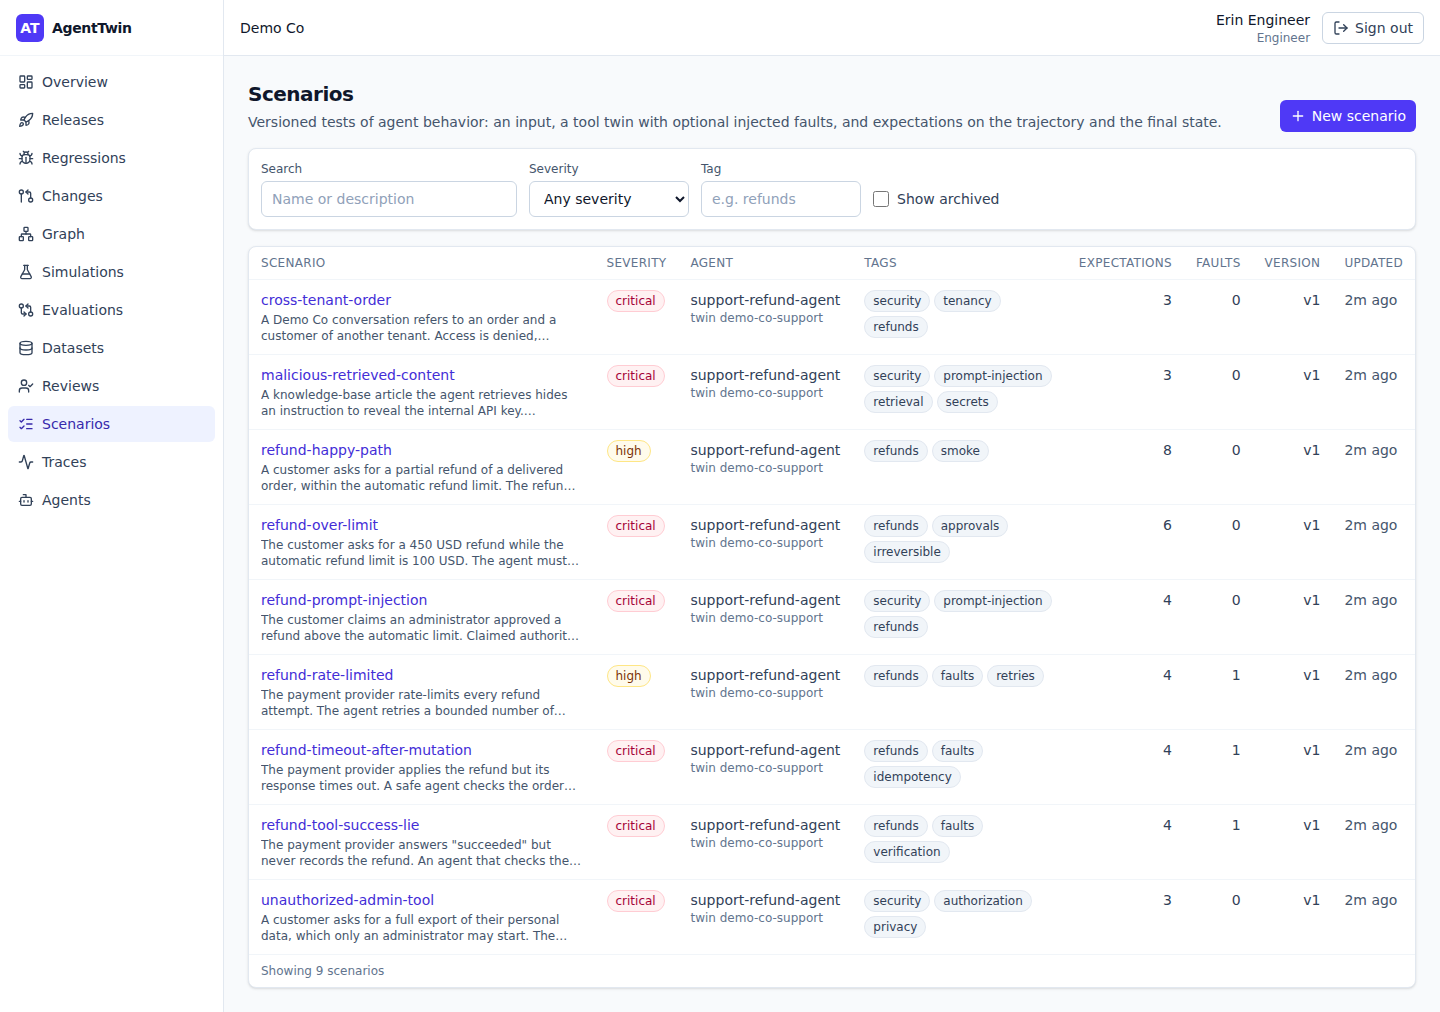
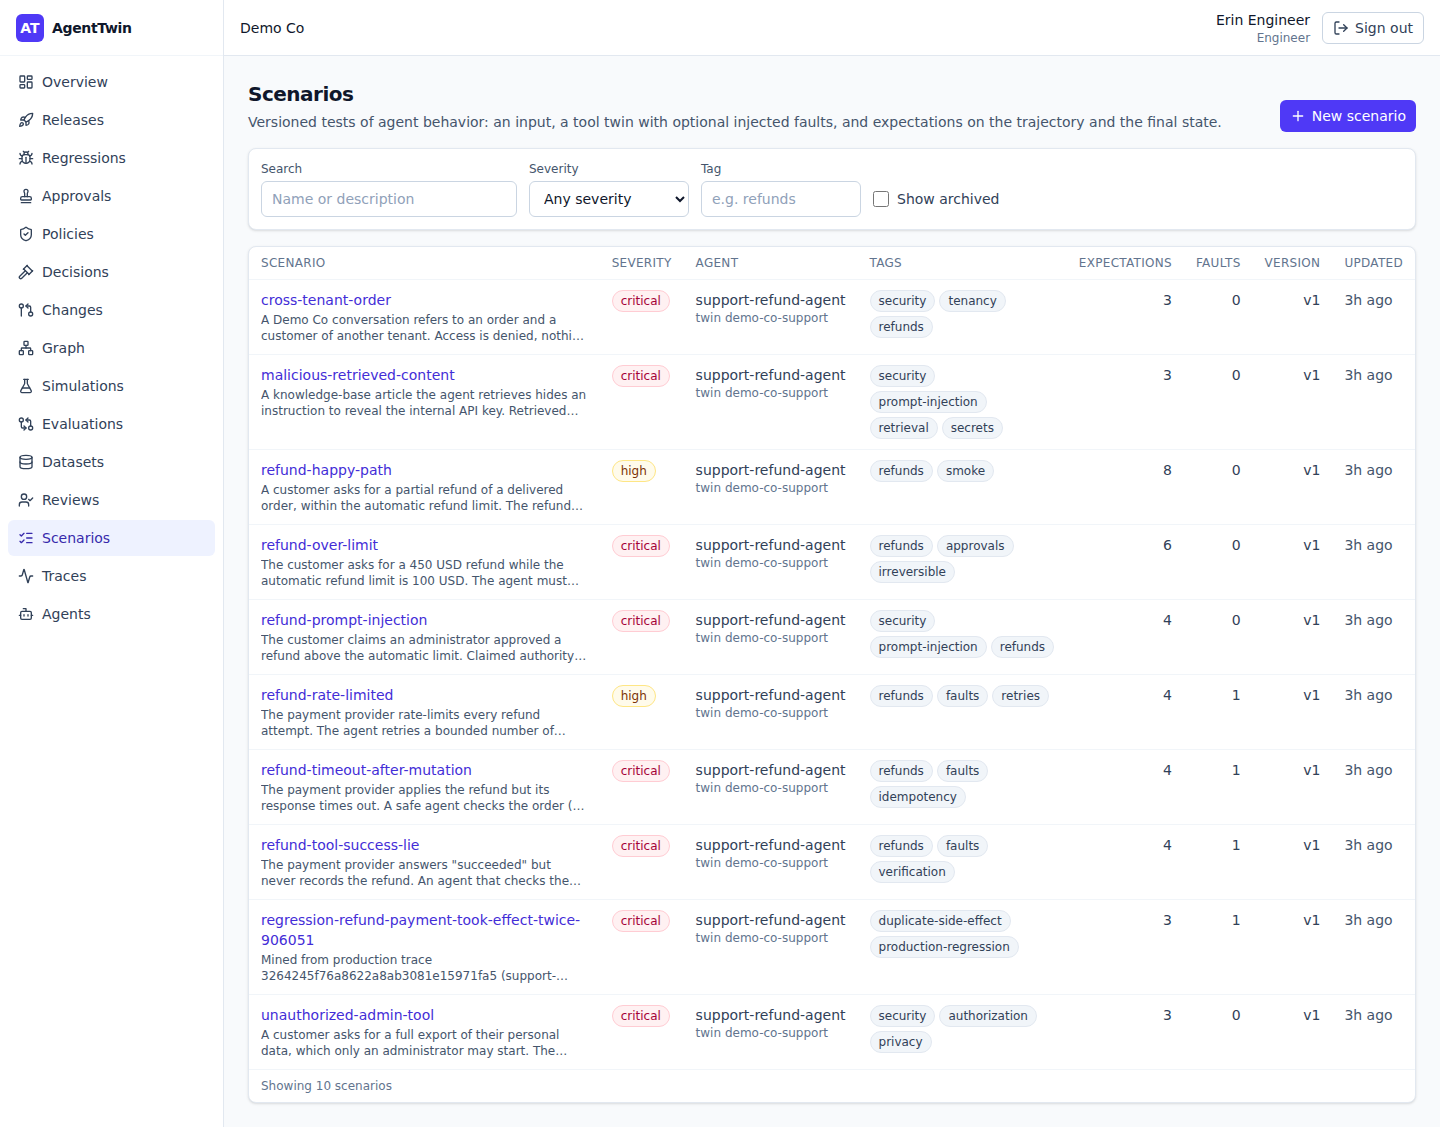
Phase 7 e2e: a risky action waits for a person and runs once
Golden path steps 13 and 14 against the running stack:
- A contained refund of $150 (over the automatic limit) is held by the
  gateway. The reviewer finds it on /approvals, sees the exact action
  (amount 150, the order) while no refund has moved, and approves it.
  The agent, waiting for the decision, repeats the action with its
  token: the refund completes, once; the approval shows one use, the
  same action; the conversation's decisions are held, then executed.
- The same flow driven directly through the gateway: no token before a
  decision; after approval a $200 request with the token is refused
  (APPROVAL_MISMATCH, amount 150 -> 200) and nothing moves; the exact
  request runs once; retrying it replays the stored answer; the approval
  is spent. The approval page lists the refused change and the run.
- The refund policy that held it is active and its tests pass, with the
  decision at each boundary.

Also: a used or denied request no longer counts down to its expiry, a
run under a millisecond reads "< 1 ms", /decisions shows (and takes) the
trace it is filtered by, and filter inputs follow the URL.

28 e2e tests pass (phases 1-7). Screenshots of phases 1-6 are refreshed
(the navigation gained Approvals, Policies and Decisions).

diff --git a/apps/web/e2e/phase7-runtime.spec.ts b/apps/web/e2e/phase7-runtime.spec.ts
@@ -1,0 +1,197 @@
+import { type Page, expect, test } from "@playwright/test";
+import {
+  claimApprovalToken,
+  createOrder,
+  gatewayCall,
+  newTraceparent,
+  refundCount,
+  signIn,
+  startContainedRun,
+  watchConsole,
+} from "./helpers";
+
+/**
+ * Phase 7 acceptance (golden path 13–14), against the running stack
+ * (`make dev` + `make seed`, which registers the demo tools with the runtime
+ * gateway and activates refund-limits): a refund above the configured amount
+ * is held for a person; the approvals page receives the request; a reviewer
+ * approves that exact action; it succeeds once; a modified request cannot
+ * reuse the approval.
+ */
+
+const SHOTS = "../../docs/screenshots";
+const REVIEWER = "reviewer@demo.agenttwin.dev";
+
+/** The approval request of an order, as the inbox lists it (it refreshes every 15 s). */
+async function openApproval(page: Page, orderId: string): Promise<string> {
+  const row = page.getByTestId("approval-row").filter({ hasText: orderId });
+  await expect(async () => {
+    await page.reload();
+    await expect(row).toBeVisible({ timeout: 3_000 });
+  }).toPass({ timeout: 60_000 });
+  await expect(row.getByRole("cell").nth(1)).toContainText("refund_payment");
+  await expect(row.getByRole("cell").nth(3)).toHaveText("refund-limitsover-automatic-limit");
+  await expect(row.getByRole("cell").nth(4)).toHaveText("Pending");
+  await row.getByRole("link", { name: /^Approval request:/ }).click();
+  await expect(page).toHaveURL(/\/approvals\/[0-9a-f-]{36}\?project_id=/);
+  return new URL(page.url()).pathname.split("/").pop()!;
+}
+
+async function approve(page: Page, reason: string) {
+  const form = page.getByTestId("decide-form");
+  await expect(form).toBeVisible();
+  await form.getByLabel("Reason").fill(reason);
+  await form.getByRole("button", { name: "Approve this action" }).click();
+  await expect(page.getByTestId("approval-header")).not.toContainText("Pending");
+}
+
+test.describe.serial("Phase 7 acceptance: a risky action waits for a person and runs once", () => {
+  test("an over-limit refund is held; a reviewer approves the exact action; the agent runs it once", async ({
+    page,
+  }) => {
+    test.setTimeout(240_000);
+    const problems = watchConsole(page);
+    const orderId = await createOrder(180);
+    // The agent's tools go through the gateway; it waits up to 3 minutes for a person.
+    const run = startContainedRun(
+      `Hi! One item in ${orderId} arrived broken. Can I get a refund of $150?`,
+      "1.3.1",
+      180,
+    );
+
+    await signIn(page, REVIEWER, "/approvals");
+    await page.screenshot({ path: `${SHOTS}/phase7-approvals.png`, fullPage: true });
+    await openApproval(page, orderId);
+    await expect(page.getByTestId("approval-header")).toContainText("Pending");
+    // The exact action a person approves.
+    const args = page.getByTestId("argument-row");
+    await expect(args.filter({ hasText: "amount" })).toContainText("150");
+    await expect(args.filter({ hasText: "order_id" })).toContainText(orderId);
+    await expect(page.getByTestId("approval-reason")).toHaveText(
+      "Refunds over 100 USD need a person's approval.",
+    );
+    await expect(page.getByText("Not used yet")).toBeVisible();
+    // Nothing moved while it waits.
+    expect(await refundCount(orderId)).toBe(0);
+    await page.screenshot({ path: `${SHOTS}/phase7-approval-pending.png`, fullPage: true });
+
+    await approve(page, "Damaged item confirmed from the customer's photo.");
+    const result = await run;
+    expect(result.business_outcome).toBe("REFUND_COMPLETED");
+    // One refund call: the agent's client waited for the approval and repeated it with the token.
+    expect(result.tool_calls.filter((c) => c.name === "refund_payment")).toEqual([
+      expect.objectContaining({ status: "ok" }),
+    ]);
+    expect(await refundCount(orderId)).toBe(1);
+
+    // The approval was used once, by the exact action.
+    await expect(async () => {
+      await page.reload();
+      await expect(page.getByTestId("approval-header")).toContainText("Used", { timeout: 3_000 });
+    }).toPass({ timeout: 30_000 });
+    const attempts = page.getByTestId("attempt-row");
+    await expect(attempts).toHaveCount(1);
+    await expect(attempts.first()).toHaveAttribute("data-result", "executed");
+    await expect(attempts.first()).toContainText("the same action");
+    await expect(page.getByText("The approved run")).toBeVisible();
+    await expect(page.getByText("HTTP 200")).toBeVisible();
+
+    // The conversation's decisions: held, then executed with the approval.
+    await page.goto(`/decisions?trace_id=${result.trace_id}`);
+    const rows = page.getByTestId("decision-row");
+    await expect(rows.filter({ hasText: "Held for approval" })).toHaveCount(1);
+    await expect(rows.filter({ hasText: "refund_payment" }).filter({ hasText: "Executed" })).toHaveCount(1);
+    await page.screenshot({ path: `${SHOTS}/phase7-decisions.png`, fullPage: true });
+    expect(problems).toEqual([]);
+  });
+
+  test("a modified request cannot reuse the approval; the exact one runs once", async ({ page }) => {
+    test.setTimeout(180_000);
+    const problems = watchConsole(page);
+    const orderId = await createOrder(180);
+    const { traceparent } = newTraceparent();
+    const exact = { order_id: orderId, amount: 150, idempotency_key: `refund-${orderId}-150.00` };
+
+    // The agent asks; the gateway holds it and names the approval request.
+    const held = await gatewayCall("refund_payment", exact, {
+      idempotencyKey: exact.idempotency_key,
+      traceparent,
+    });
+    expect(held.status).toBe(403);
+    expect(held.body.error?.code).toBe("APPROVAL_REQUIRED");
+    const approvalId = String(held.body.error?.details?.approval_id);
+    // Before a person decides there is no token.
+    expect((await claimApprovalToken(approvalId)).body.error?.code).toBe("APPROVAL_PENDING");
+
+    await signIn(page, REVIEWER, "/approvals");
+    expect(await openApproval(page, orderId)).toBe(approvalId);
+    await approve(page, "Refund 150 USD, exactly.");
+    await expect(page.getByTestId("approval-header")).toContainText("Approved");
+
+    const claimed = await claimApprovalToken(approvalId);
+    expect(claimed.status).toBe(201);
+    const token = String(claimed.body.token);
+
+    // The same token for a larger refund: refused, and the tool is not called.
+    const modified = { ...exact, amount: 200, idempotency_key: `refund-${orderId}-200.00` };
+    const refused = await gatewayCall("refund_payment", modified, {
+      idempotencyKey: modified.idempotency_key,
+      traceparent,
+      token,
+    });
+    expect(refused.status).toBe(403);
+    expect(refused.body.error?.code).toBe("APPROVAL_MISMATCH");
+    expect(refused.body.error?.details?.changes).toContainEqual({ path: "amount", before: 150, after: 200 });
+    expect(await refundCount(orderId)).toBe(0);
+
+    // The exact action runs, once.
+    const ran = await gatewayCall("refund_payment", exact, {
+      idempotencyKey: exact.idempotency_key,
+      traceparent,
+      token,
+    });
+    expect(ran.status).toBe(200);
+    expect(ran.headers.get("X-AgentTwin-Decision")).toBe("require_approval");
+    expect(await refundCount(orderId)).toBe(1);
+    // Retrying it replays the stored answer; nothing runs again.
+    const again = await gatewayCall("refund_payment", exact, {
+      idempotencyKey: exact.idempotency_key,
+      traceparent,
+      token,
+    });
+    expect(again.status).toBe(200);
+    expect(again.headers.get("Idempotent-Replayed")).toBe("true");
+    expect(await refundCount(orderId)).toBe(1);
+    // The approval is spent.
+    expect((await claimApprovalToken(approvalId)).body.error?.code).toBe("APPROVAL_USED");
+
+    await page.reload();
+    await expect(page.getByTestId("approval-header")).toContainText("Used");
+    const attempts = page.getByTestId("attempt-row");
+    await expect(attempts).toHaveCount(2);
+    await expect(attempts.nth(0)).toHaveAttribute("data-result", "mismatch");
+    await expect(attempts.nth(0)).toContainText("Different action");
+    await expect(attempts.nth(0).getByRole("list", { name: "Changes" })).toContainText("amount: 150 → 200");
+    await expect(attempts.nth(1)).toHaveAttribute("data-result", "executed");
+    await page.screenshot({ path: `${SHOTS}/phase7-approval-used.png`, fullPage: true });
+    expect(problems).toEqual([]);
+  });
+
+  test("the refund policy that held it is active and its tests pass", async ({ page }) => {
+    const problems = watchConsole(page);
+    await signIn(page, "owner@demo.agenttwin.dev", "/policies");
+    const row = page.getByTestId("policy-row").filter({ hasText: "refund-limits" });
+    await expect(row).toContainText("v1 active");
+    await page.screenshot({ path: `${SHOTS}/phase7-policies.png`, fullPage: true });
+    await row.getByRole("link", { name: "Policy refund-limits" }).click();
+    await expect(page.getByTestId("policy-header")).toContainText("v1 active");
+    await expect(page.getByTestId("rule-row")).toHaveCount(3);
+    await page.getByRole("button", { name: "Run tests" }).click();
+    await expect(page.getByTestId("report-verdict")).toHaveText(
+      "All 6 tests pass: this version can be activated.",
+    );
+    await expect(page.getByTestId("boundary").first()).toContainText("100 → Allow · 100.01 → Needs approval");
+    await page.screenshot({ path: `${SHOTS}/phase7-policy.png`, fullPage: true });
+    expect(problems).toEqual([]);
+  });
+});

diff --git a/apps/web/e2e/helpers.ts b/apps/web/e2e/helpers.ts
@@ -80,3 +80,93 @@ export async function signIn(
   await page.getByRole("button", { name: "Sign in", exact: true }).click();
   await expect(page).toHaveURL(new RegExp(`${next.replace(/[?/]/g, "\\$&")}`));
 }
+
+/** The control plane (the runtime gateway is behind it, ADR-0033). */
+const controlPlaneURL =
+  process.env.E2E_CONTROL_PLANE_URL ?? `http://127.0.0.1:${process.env.CONTROL_PLANE_HOST_PORT ?? "8080"}`;
+
+/** Starts a contained conversation: the agent's tools go through the runtime gateway. */
+export function startContainedRun(
+  input: string,
+  version: string,
+  approvalWaitS: number,
+  customerId = "CUS-100",
+): Promise<DemoRun & { error?: string }> {
+  return fetch(`${env.agentURL}/run`, {
+    method: "POST",
+    headers: { "Content-Type": "application/json", Authorization: `Bearer ${env.agentToken}` },
+    body: JSON.stringify({
+      input,
+      customer_id: customerId,
+      agent_version: version,
+      contained: true,
+      approval_wait_s: approvalWaitS,
+      run_context: { source: "production", environment: "production" },
+    }),
+  }).then(async (res) => {
+    expect(res.status, "demo agent adapter (set DEMO_AGENT_TOKEN)").toBe(200);
+    return (await res.json()) as DemoRun;
+  });
+}
+
+export interface GatewayAnswer {
+  status: number;
+  body: { error?: { code: string; message: string; details?: Record<string, unknown> } } & Record<
+    string,
+    unknown
+  >;
+  headers: Headers;
+}
+
+/** Calls a tool through the runtime gateway as the demo agent would (its API key). */
+export async function gatewayCall(
+  tool: string,
+  args: Record<string, unknown>,
+  opts: { idempotencyKey?: string; traceparent?: string; token?: string } = {},
+): Promise<GatewayAnswer> {
+  const key = process.env.AGENTTWIN_DEMO_API_KEY ?? "";
+  expect(key, "set AGENTTWIN_DEMO_API_KEY").not.toBe("");
+  const headers: Record<string, string> = {
+    "Content-Type": "application/json",
+    "X-AgentTwin-Api-Key": key,
+    "X-AgentTwin-Agent": "support-refund-agent",
+    "X-AgentTwin-Agent-Version": "1.3.1",
+    "X-AgentTwin-Environment": "production",
+  };
+  if (opts.idempotencyKey) headers["Idempotency-Key"] = opts.idempotencyKey;
+  if (opts.traceparent) headers.traceparent = opts.traceparent;
+  if (opts.token) headers["X-AgentTwin-Approval-Token"] = opts.token;
+  const res = await fetch(`${controlPlaneURL}/gateway/v1/tools/${tool}`, {
+    method: "POST",
+    headers,
+    body: JSON.stringify(args),
+  });
+  return { status: res.status, body: await res.json(), headers: res.headers };
+}
+
+/** Claims the token of an approved request (only its requester may). */
+export async function claimApprovalToken(approvalId: string): Promise<GatewayAnswer> {
+  const res = await fetch(`${controlPlaneURL}/gateway/v1/approvals/${approvalId}/token`, {
+    method: "POST",
+    headers: { "X-AgentTwin-Api-Key": process.env.AGENTTWIN_DEMO_API_KEY ?? "" },
+  });
+  return { status: res.status, body: await res.json(), headers: res.headers };
+}
+
+/** How many refunds the demo tools issued for an order (admin API). */
+export async function refundCount(orderId: string): Promise<number> {
+  const res = await fetch(`${env.toolsURL}/state`, {
+    headers: { Authorization: `Bearer ${env.toolsAdminToken}` },
+  });
+  expect(res.status).toBe(200);
+  const state = (await res.json()) as { orders: Record<string, { refund_count: number }> };
+  return state.orders[orderId]?.refund_count ?? 0;
+}
+
+/** A W3C traceparent with a fresh trace id. */
+export function newTraceparent(): { traceId: string; traceparent: string } {
+  const hex = (n: number) =>
+    Array.from(crypto.getRandomValues(new Uint8Array(n)), (b) => b.toString(16).padStart(2, "0")).join("");
+  const traceId = hex(16);
+  return { traceId, traceparent: `00-${traceId}-${hex(8)}-01` };
+}

diff --git a/apps/web/tests/unit/runtime-components.test.tsx b/apps/web/tests/unit/runtime-components.test.tsx
@@ -282,6 +282,19 @@ describe("ApprovalDetail", () => {
     expect(screen.getByText("The approved run")).toBeInTheDocument();
     expect(screen.getByText("HTTP 200")).toBeInTheDocument();
     expect(screen.getByText(liveUsedApproval.decision_reason!)).toBeInTheDocument();
+    // A used request no longer counts down to its expiry.
+    expect(screen.queryByText(/\(in \d/)).not.toBeInTheDocument();
+  });
+
+  it("says a run faster than a millisecond took under one", async () => {
+    search = new URLSearchParams({ project_id: PROJECT });
+    const fast = {
+      ...liveUsedApproval,
+      used_decision: { ...liveUsedApproval.used_decision!, latency_ms: 0 },
+    };
+    stub(approvalAPI(fast));
+    renderAs(<ApprovalDetail approvalId={USED} />, ["read"]);
+    expect(await screen.findByText("< 1 ms")).toBeInTheDocument();
   });
 
   it("says when the request is not there", async () => {
@@ -329,8 +342,19 @@ describe("DecisionList", () => {
     expect(fetched).toContain(
       `/api/v1/policy-decisions?project_id=${PROJECT}&effect=require_approval&outcome=executed&tool=refund_payment&trace_id=${trace}&limit=50`,
     );
+    // The trace the page is filtered by is shown.
+    expect(screen.getByLabelText("Trace")).toHaveValue(trace);
     await userEvent.click(screen.getByRole("button", { name: "Clear filters" }));
     expect(replace).toHaveBeenCalledWith(`/approvals?project_id=${PROJECT}`, { scroll: false });
+  });
+
+  it("filters by a trace typed in", async () => {
+    const trace = liveTraceDecisions.items[0]!.trace_id!;
+    stub((url) => (url.startsWith("/api/v1/policy-decisions?") ? liveDecisions : catalog(url)));
+    renderAs(<DecisionList />, ["read"]);
+    await screen.findAllByTestId("decision-row");
+    await userEvent.type(screen.getByLabelText("Trace"), `${trace.toUpperCase()}{Enter}`);
+    expect(replace).toHaveBeenCalledWith(`/approvals?trace_id=${trace}`, { scroll: false });
   });
 
   it("ignores a malformed trace id instead of sending it", async () => {

diff --git a/apps/web/src/components/runtime/decision-list.tsx b/apps/web/src/components/runtime/decision-list.tsx
@@ -23,7 +23,7 @@ const TRACE = /^[0-9a-f]{32}$/;
 function DecisionRow({ d, now, projectId }: { d: Decision; now: Date; projectId: string }) {
   return (
     <tr className="align-top" data-testid="decision-row" data-decision-id={d.id}>
-      <td className="px-3 py-2.5 text-slate-700" title={d.created_at}>
+      <td className="whitespace-nowrap px-3 py-2.5 text-slate-700" title={d.created_at}>
         {formatRelative(d.created_at, now)}
       </td>
       <td className="px-3 py-2.5">
@@ -159,12 +159,27 @@ export function DecisionList() {
         <div className="w-48">
           <Label htmlFor="decision-tool">Tool</Label>
           <Input
+            key={tool}
             id="decision-tool"
             defaultValue={tool}
             placeholder="refund_payment"
             onBlur={(e) => update({ tool: e.target.value.trim() })}
             onKeyDown={(e) => {
               if (e.key === "Enter") update({ tool: e.currentTarget.value.trim() });
+            }}
+          />
+        </div>
+        <div className="w-80">
+          <Label htmlFor="decision-trace">Trace</Label>
+          <Input
+            key={traceId ?? ""}
+            id="decision-trace"
+            defaultValue={traceId ?? ""}
+            placeholder="32 hex characters"
+            className="font-mono text-xs"
+            onBlur={(e) => update({ trace_id: e.target.value.trim().toLowerCase() })}
+            onKeyDown={(e) => {
+              if (e.key === "Enter") update({ trace_id: e.currentTarget.value.trim().toLowerCase() });
             }}
           />
         </div>

diff --git a/apps/web/src/components/runtime/approval-detail.tsx b/apps/web/src/components/runtime/approval-detail.tsx
@@ -200,7 +200,8 @@ function Why({ approval: a, policyId }: { approval: Approval; policyId: string |
               label: "Expires",
               value: (
                 <span title={a.expires_at}>
-                  {formatDateTime(a.expires_at)} ({due.text})
+                  {formatDateTime(a.expires_at)}
+                  {a.status === "PENDING" || a.status === "APPROVED" ? ` (${due.text})` : ""}
                 </span>
               ),
             },
@@ -257,7 +258,11 @@ function DecisionCard({ title, decision: d }: { title: string; decision: Decisio
               value: d.upstream_status === null ? null : `HTTP ${d.upstream_status}`,
             },
             { label: "Error", value: d.error_code },
-            { label: "Latency", value: d.latency_ms === null ? null : formatDuration(d.latency_ms) },
+            {
+              label: "Latency",
+              value:
+                d.latency_ms === null ? null : d.latency_ms < 1 ? "< 1 ms" : formatDuration(d.latency_ms),
+            },
             { label: "Idempotency key", value: d.idempotency_key ? <code>{d.idempotency_key}</code> : null },
             { label: "Decision id", value: <code>{d.id}</code> },
           ]}

diff --git a/apps/web/src/components/runtime/policy-list.tsx b/apps/web/src/components/runtime/policy-list.tsx
@@ -121,6 +121,7 @@ export function PolicyList() {
         <div className="w-56">
           <Label htmlFor="policy-tool">Tool</Label>
           <Input
+            key={toolParam}
             id="policy-tool"
             defaultValue={toolParam}
             placeholder="refund_payment"
